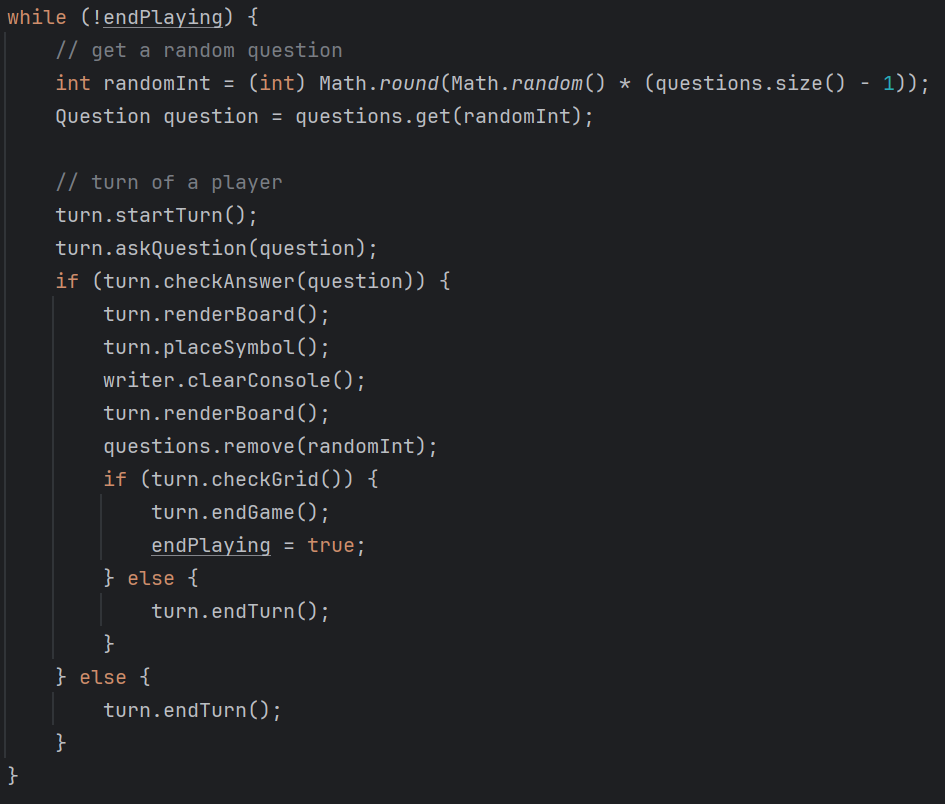
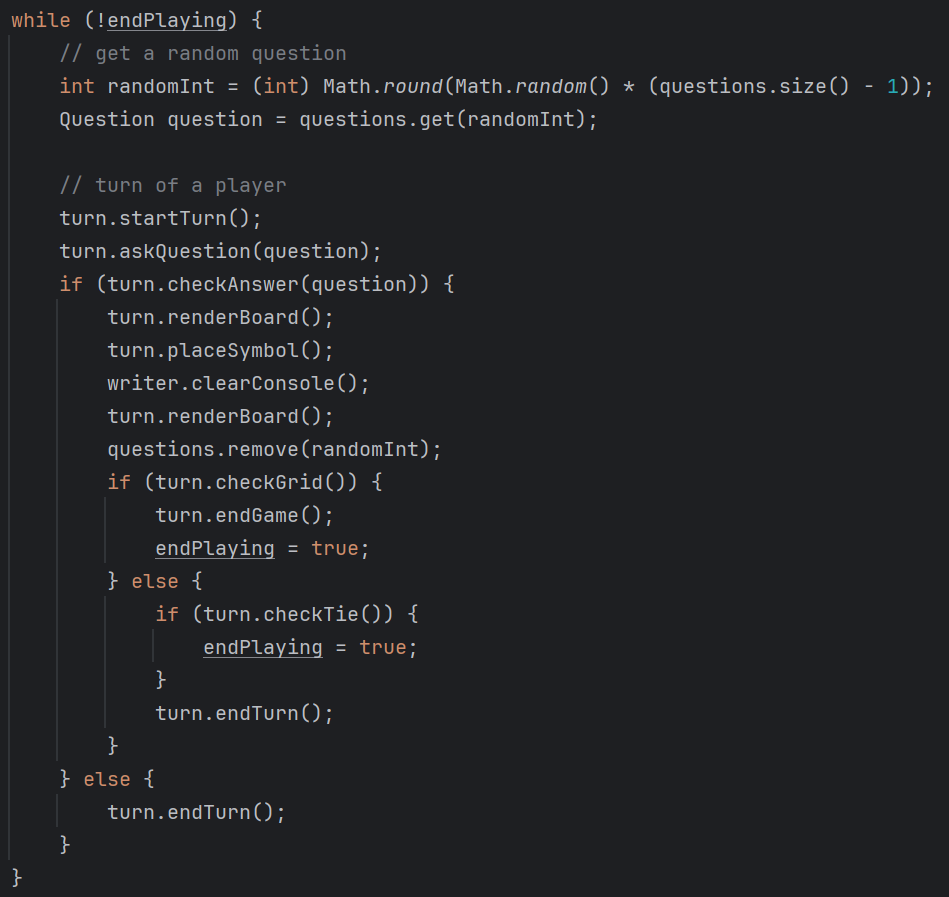
Finish readMe

diff --git a/README.md b/README.md
@@ -16,8 +16,8 @@ We spraken iedere dag af om te pair programmen en wisselde iedere dag om waardoo
 
 
 ### Commits (update readme excluded):
-- Erik (6) + initial commit
-- Robin (7)
+- Erik (7) + initial commit
+- Robin (8)
 
 ### Planning
 9-1-2024 Initial commit <br>
@@ -82,7 +82,7 @@ Iedere ronde ziet er als volgt uit voor de speler aan zet:
 4. Teken we het bord zodat de speler kan kiezen waar deze zijn/haar teken wil zetten
 5. Vraag in welk vak de speler zijn/haar teken wil zetten
 6. Teken nogmaals het bord om te laten zien dat het teken geplaatst is
-7. Controleer of de speler drie op een rij heeft (indien geen drie op een rij eindigt de beurt)
+7. Controleer of de speler drie op een rij heeft (Indien er geen drie op een rij is, kijk of het gelijk spel is geworden. Indien het geen gelijk spel is eindigt de beurt)
 8. Feliciteer speler dat hij/zij drie op een rij heeft en eindig het spel
    <br>
    <br>
